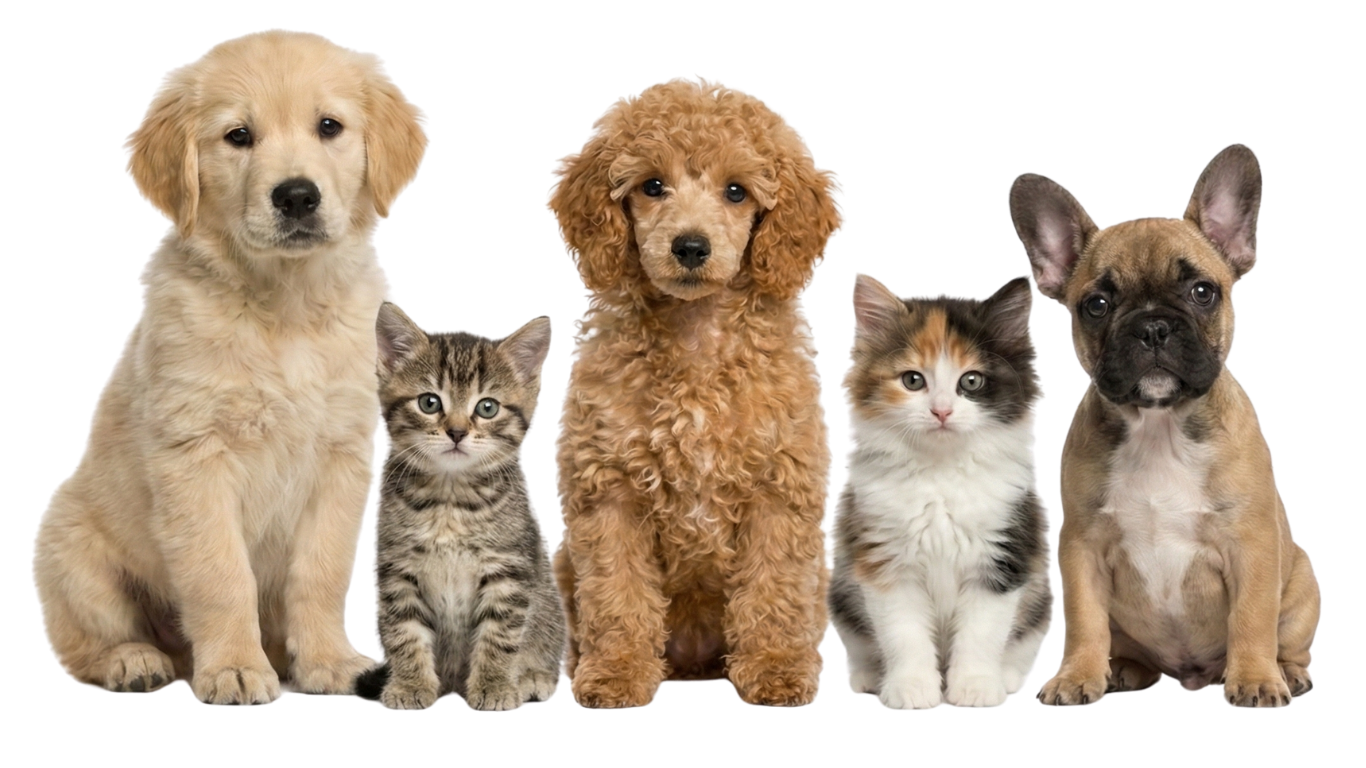
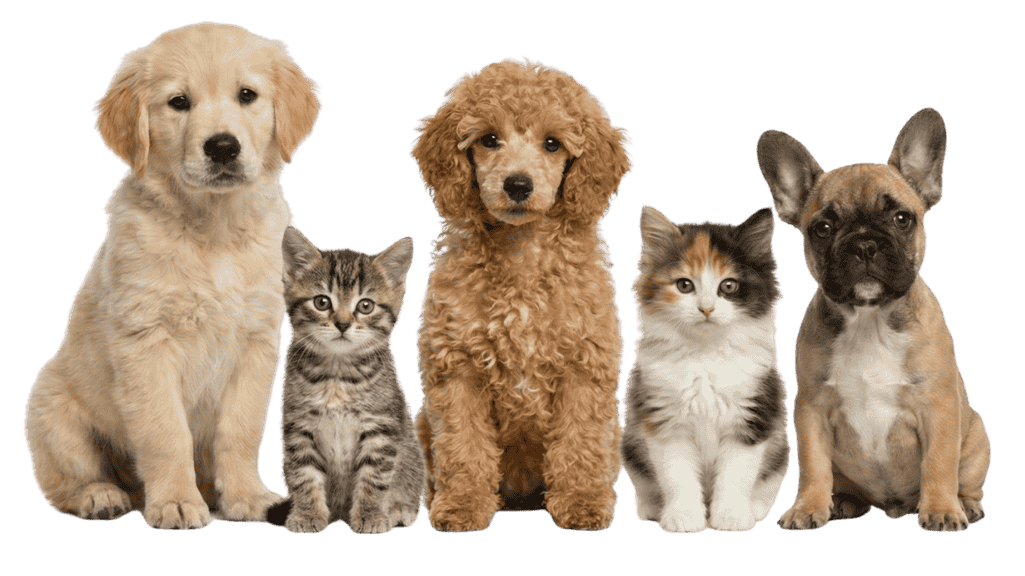
made the images and the animation lighter

diff --git a/app/page.js b/app/page.js
@@ -9,28 +9,28 @@ import React, { useRef, useEffect, useState } from 'react'
 // ==========================================
 
 const useReveal = (threshold = 0.1) => {
-  const ref = useRef(null)
-  const [isVisible, setIsVisible] = useState(false)
+    const ref = useRef(null)
+    const [isVisible, setIsVisible] = useState(false)
 
-  useEffect(() => {
-    const element = ref.current
-    if (!element) return
+    useEffect(() => {
+        const element = ref.current
+        if (!element) return
 
-    const observer = new IntersectionObserver(
-      ([entry]) => {
-        if (entry.isIntersecting) {
-          setIsVisible(true)
-          observer.disconnect() 
-        }
-      },
-      { threshold }
-    )
+        const observer = new IntersectionObserver(
+            ([entry]) => {
+                if (entry.isIntersecting) {
+                    setIsVisible(true)
+                    observer.disconnect()
+                }
+            },
+            { threshold }
+        )
 
-    observer.observe(element)
-    return () => observer.disconnect()
-  }, [threshold])
+        observer.observe(element)
+        return () => observer.disconnect()
+    }, [threshold])
 
-  return { ref, isVisible }
+    return { ref, isVisible }
 }
 
 // ==========================================
@@ -38,146 +38,127 @@ const useReveal = (threshold = 0.1) => {
 // ==========================================
 
 const HeroPremium = () => {
-  // We keep useReveal only for non-critical elements (like the floating cards)
-  // The H1 and Main Image must NOT rely on this hook for LCP speed.
-  const { ref, isVisible } = useReveal()
+    // We keep useReveal only for non-critical elements (like the floating cards)
+    // The H1 and Main Image must NOT rely on this hook for LCP speed.
+    const { ref, isVisible } = useReveal()
 
-  return (
-    <div ref={ref} className='relative w-full flex justify-center items-center min-h-[85vh] overflow-hidden py-20'>
-      
-      {/* BACKGROUND DECORATION */}
-      <div className="absolute top-0 right-0 w-[800px] h-[800px] rounded-full blur-3xl opacity-60 -translate-y-1/2 translate-x-1/3 pointer-events-none" />
-      <div className="absolute bottom-0 left-0 w-[600px] h-[600px] bg-orange-100/40 rounded-full blur-3xl opacity-50 translate-y-1/3 -translate-x-1/4 pointer-events-none" />
+    return (
+        <div ref={ref} className='relative w-full flex justify-center items-center min-h-[85vh] overflow-hidden py-20'>
 
-      <div className='relative z-10 w-[90%] max-w-7xl grid grid-cols-1 lg:grid-cols-2 gap-16 lg:gap-8 items-center'>
-        
-        {/* =======================================
+            {/* BACKGROUND DECORATION */}
+            <div className="absolute top-0 right-0 w-[800px] h-[800px] rounded-full blur-3xl opacity-60 -translate-y-1/2 translate-x-1/3 pointer-events-none" />
+            <div className="absolute bottom-0 left-0 w-[600px] h-[600px] bg-orange-100/40 rounded-full blur-3xl opacity-50 translate-y-1/3 -translate-x-1/4 pointer-events-none" />
+
+            <div className='relative z-10 w-[90%] max-w-7xl grid grid-cols-1 lg:grid-cols-2 gap-16 lg:gap-8 items-center'>
+
+                {/* =======================================
             TEXT SECTION (Left Side)
            ======================================= */}
-        <div className='flex flex-col items-center lg:items-start text-center lg:text-left order-last lg:order-first'>
-            
-            {/* 1. Pill Badge - Uses CSS Animation (delay 0.1s) */}
-            <div className="opacity-0 animate-[fade-up_0.8s_ease-out_forwards_100ms]">
-                <span className="inline-flex items-center gap-2 bg-orange-50 text-[#E85D04] px-5 py-2 rounded-full text-sm font-bold tracking-wide border border-orange-100 mb-8">
-                    <span className="w-2 h-2 rounded-full bg-[#E85D04] animate-pulse"/>
-                    Over 500+ pets adopted this month
-                </span>
-            </div>
+                <div className='flex flex-col items-center lg:items-start text-center lg:text-left order-last lg:order-first'>
 
-            {/* 2. Massive Heading - THIS IS YOUR LCP ELEMENT */}
-            {/* SOLUTION: Removed JS conditional classes. Added CSS animation. */}
-            <h1 className="text-5xl lg:text-7xl xl:text-8xl font-extrabold text-[#2d2d2d] leading-[1.05] tracking-tight mb-8 opacity-0 animate-[fade-up_0.8s_ease-out_forwards_200ms]">
-                Find your <br />
-                <span className="text-transparent bg-clip-text bg-linear-to-r from-[#E85D04] to-[#FF9F1C] relative">
-                    soulmate.
-                    {/* Artistic Underline */}
-                    <svg className="absolute  h-4 -bottom-1 left-0 text-[#FF9F1C] animate-[width-grow_1s_ease-out_forwards_800ms] w-0 opacity-0" viewBox="0 0 200 9" fill="none" preserveAspectRatio="none"><path d="M2.00025 6.99997C2.00025 6.99997 101 -0.500003 198 2.49997" stroke="currentColor" strokeWidth="4" strokeLinecap="round"/></svg>
-                </span>
-            </h1>
-
-            {/* 3. Description */}
-            <p className="text-lg text-[#5a4a3a] font-medium max-w-lg leading-relaxed mb-10 opacity-0 animate-[fade-up_0.8s_ease-out_forwards_300ms]">
-                They aren&apos;t just looking for a home. They are looking for you. Browse hundreds of profiles and find the one that clicks.
-            </p>
-
-            {/* 4. Action Area */}
-            <div className="flex flex-col sm:flex-row items-center gap-8 w-full opacity-0 animate-[fade-up_0.8s_ease-out_forwards_500ms]">
-                <button className='cursor-pointer relative overflow-hidden group bg-[#2d2d2d] text-white font-bold text-lg px-10 py-5 rounded-full shadow-2xl hover:scale-105 transition-all duration-300'>
-                    <Link href="/pets" className="relative z-10 flex items-center gap-2">
-                        Start Adoption
-                        <svg className="w-5 h-5 group-hover:translate-x-1 transition-transform" fill="none" stroke="currentColor" viewBox="0 0 24 24"><path strokeLinecap="round" strokeLinejoin="round" strokeWidth="2" d="M17 8l4 4m0 0l-4 4m4-4H3"></path></svg>
-                    </Link>
-                    <div className="absolute inset-0 -translate-x-full group-hover:translate-x-full transition-transform duration-700 bg-linear-to-r from-transparent via-white/20 to-transparent skew-x-12" />
-                </button>
-
-                {/* Avatar Stack */}
-                <div className="flex items-center gap-3">
-                    <div className="flex -space-x-4">
-                        {[1,2,3].map((_, i) => (
-                            <div key={i} className="w-10 h-10 rounded-full border-2 border-white bg-gray-200 overflow-hidden relative">
-                                <Image 
-                                    src={`https://i.pravatar.cc/100?img=${i + 10}`} 
-                                    alt="User" 
-                                    fill 
-                                    className="object-cover"
-                                    unoptimized
-                                />
-                            </div>
-                        ))}
+                    {/* 1. Pill Badge - Uses CSS Animation (delay 0.1s) */}
+                    <div className="opacity-0 animate-[fade-up_0.8s_ease-out_forwards_100ms] will-change-transform">
+                        <span className="inline-flex items-center gap-2 bg-orange-50 text-[#E85D04] px-5 py-2 rounded-full text-sm font-bold tracking-wide border border-orange-100 mb-8">
+                            <span className="w-2 h-2 rounded-full bg-[#E85D04] animate-pulse" />
+                            Over 500+ pets adopted this month
+                        </span>
                     </div>
-                    <div className="text-sm font-semibold text-[#5a4a3a]">
-                        <span className="block font-bold text-[#E85D04]">2k+ Families</span>
-                        Trust us
+
+                    {/* 2. Massive Heading - THIS IS YOUR LCP ELEMENT */}
+                    {/* SOLUTION: Removed JS conditional classes. Added CSS animation. */}
+                    <h1 className="text-5xl lg:text-7xl xl:text-8xl font-extrabold text-[#2d2d2d] leading-[1.05] tracking-tight mb-8 opacity-0 animate-[fade-up_0.8s_ease-out_forwards_200ms] will-change-transform">
+                        Find your <br />
+                        <span className="text-transparent bg-clip-text bg-linear-to-r from-[#E85D04] to-[#FF9F1C] relative">
+                            soulmate.
+                            {/* Artistic Underline - Optimized: uses scaleX and origin-left instead of width */}
+                            <svg className="absolute  h-4 -bottom-1 left-0 text-[#FF9F1C] animate-[width-grow_1s_ease-out_forwards_800ms] w-full origin-left scale-x-0 opacity-0 will-change-transform" viewBox="0 0 200 9" fill="none" preserveAspectRatio="none"><path d="M2.00025 6.99997C2.00025 6.99997 101 -0.500003 198 2.49997" stroke="currentColor" strokeWidth="4" strokeLinecap="round" /></svg>
+                        </span>
+                    </h1>
+
+                    {/* 3. Description */}
+                    <p className="text-lg text-[#5a4a3a] font-medium max-w-lg leading-relaxed mb-10 opacity-0 animate-[fade-up_0.8s_ease-out_forwards_300ms] will-change-transform">
+                        They aren&apos;t just looking for a home. They are looking for you. Browse hundreds of profiles and find the one that clicks.
+                    </p>
+
+                    {/* 4. Action Area */}
+                    <div className="flex flex-col sm:flex-row items-center gap-8 w-full opacity-0 animate-[fade-up_0.8s_ease-out_forwards_500ms] will-change-transform">
+                        <button className='cursor-pointer relative overflow-hidden group bg-[#2d2d2d] text-white font-bold text-lg px-10 py-5 rounded-full shadow-2xl hover:scale-105 transition-all duration-300'>
+                            <Link href="/pets" className="relative z-10 flex items-center gap-2">
+                                Start Adoption
+                                <svg className="w-5 h-5 group-hover:translate-x-1 transition-transform" fill="none" stroke="currentColor" viewBox="0 0 24 24"><path strokeLinecap="round" strokeLinejoin="round" strokeWidth="2" d="M17 8l4 4m0 0l-4 4m4-4H3"></path></svg>
+                            </Link>
+                            <div className="absolute inset-0 -translate-x-full group-hover:translate-x-full transition-transform duration-700 bg-linear-to-r from-transparent via-white/20 to-transparent skew-x-12" />
+                        </button>
+
+                        {/* Avatar Stack */}
+                        <div className="flex items-center gap-3">
+                            <div className="flex -space-x-4">
+                                {[1, 2, 3].map((_, i) => (
+                                    <div key={i} className="w-10 h-10 rounded-full border-2 border-white bg-gray-200 overflow-hidden relative">
+                                        <Image
+                                            src={`https://i.pravatar.cc/100?img=${i + 10}`}
+                                            alt="User"
+                                            fill
+                                            className="object-cover"
+                                            unoptimized
+                                        />
+                                    </div>
+                                ))}
+                            </div>
+                            <div className="text-sm font-semibold text-[#5a4a3a]">
+                                <span className="block font-bold text-[#E85D04]">2k+ Families</span>
+                                Trust us
+                            </div>
+                        </div>
                     </div>
                 </div>
-            </div>
-        </div>
 
-        {/* =======================================
+                {/* =======================================
             IMAGE SECTION (Right Side)
            ======================================= */}
-        <div className="relative opacity-0 animate-[fade-in-scale_1s_ease-out_forwards_300ms]">
-            
-            {/* The Glow Behind */}
-            <div className="absolute top-1/2 left-1/2 -translate-x-1/2 -translate-y-1/2 w-[120%] h-[120%] bg-linear-to-b from-orange-200/40 to-transparent rounded-full blur-2xl -z-10" />
+                <div className="relative opacity-0 animate-[fade-in-scale_1s_ease-out_forwards_300ms] will-change-transform">
 
-            {/* Main Image Container */}
-            <div className="relative animate-[float_6s_ease-in-out_infinite]">
-                 <Image 
-                    src="/pets.png" 
-                    alt="Main Hero" 
-                    width={800} 
-                    height={800} 
-                    priority // Critical for LCP
-                    className="object-contain drop-shadow-2xl relative z-10 hover:scale-[1.02] transition-transform duration-500"
-                 />
-            </div>
+                    {/* The Glow Behind */}
+                    <div className="absolute top-1/2 left-1/2 -translate-x-1/2 -translate-y-1/2 w-[120%] h-[120%] bg-linear-to-b from-orange-200/40 to-transparent rounded-full blur-2xl -z-10" />
 
-            {/* FLOATING CARD - Keeps JS Hook because it's not critical for LCP */}
-            <div className={`
+                    {/* Main Image Container */}
+                    <div className="relative animate-[float_6s_ease-in-out_infinite]">
+                        <Image
+                            src="/pets.png"
+                            alt="Main Hero"
+                            width={800}
+                            height={800}
+                            priority // Critical for LCP
+                            className="object-contain drop-shadow-2xl relative z-10 hover:scale-[1.02] transition-transform duration-500"
+                        />
+                    </div>
+
+                    {/* FLOATING CARD - Keeps JS Hook because it's not critical for LCP */}
+                    <div className={`
                 absolute bottom-10 right-4 lg:-right-8 z-20 bg-white/80 backdrop-blur-md p-4 rounded-2xl shadow-xl border border-white/50
                 animate-[float_5s_ease-in-out_infinite_1s]
                 transition-all duration-1000 ease-out delay-700
+                will-change-transform
                 ${isVisible ? 'opacity-100 translate-y-0' : 'opacity-0 translate-y-10'}
             `}>
-                <div className="flex items-center gap-3">
-                    <div className="bg-green-100 p-2 rounded-full text-green-600">
-                        <svg className="w-6 h-6" fill="none" stroke="currentColor" viewBox="0 0 24 24"><path strokeLinecap="round" strokeLinejoin="round" strokeWidth="2" d="M5 13l4 4L19 7"></path></svg>
+                        <div className="flex items-center gap-3">
+                            <div className="bg-green-100 p-2 rounded-full text-green-600">
+                                <svg className="w-6 h-6" fill="none" stroke="currentColor" viewBox="0 0 24 24"><path strokeLinecap="round" strokeLinejoin="round" strokeWidth="2" d="M5 13l4 4L19 7"></path></svg>
+                            </div>
+                            <div>
+                                <p className="text-xs text-gray-500 font-bold uppercase tracking-wider">Just Adopted</p>
+                                <p className="text-sm font-bold text-gray-800">Milo found a home!</p>
+                            </div>
+                        </div>
                     </div>
-                    <div>
-                        <p className="text-xs text-gray-500 font-bold uppercase tracking-wider">Just Adopted</p>
-                        <p className="text-sm font-bold text-gray-800">Milo found a home!</p>
-                    </div>
+
                 </div>
+
             </div>
 
+
         </div>
-
-      </div>
-
-      {/* PURE CSS ANIMATIONS (No JS Required) 
-          This is what makes the LCP fast. The browser paints this immediately.
-      */}
-      <style jsx global>{`
-        @keyframes float {
-          0%, 100% { transform: translateY(0); }
-          50% { transform: translateY(-20px); }
-        }
-        @keyframes fade-up {
-            0% { opacity: 0; transform: translateY(20px); }
-            100% { opacity: 1; transform: translateY(0); }
-        }
-        @keyframes fade-in-scale {
-            0% { opacity: 0; transform: scale(0.95) translateX(20px); }
-            100% { opacity: 1; transform: scale(1) translateX(0); }
-        }
-        @keyframes width-grow {
-            0% { width: 0; opacity: 0; }
-            100% { width: 100%; opacity: 1; }
-        }
-      `}</style>
-    </div>
-  )
+    )
 }
 
 export default HeroPremium

diff --git a/app/pet/[id]/page.jsx b/app/pet/[id]/page.jsx
@@ -10,7 +10,7 @@ const pets = [
 
 // 1. ADD 'async' HERE
 const PetDetailsPage = async ({ params }) => {
-    
+
     // 2. ADD 'await' HERE
     // In Next.js 15+, params is a Promise. You must resolve it before reading properties.
     const resolvedParams = await params
@@ -31,14 +31,14 @@ const PetDetailsPage = async ({ params }) => {
 
     return (
         <div className="min-h-screen  py-20 px-6 flex justify-center items-center">
-            <div className="max-w-5xl w-full bg-white rounded-[40px] shadow-2xl overflow-hidden grid grid-cols-1 md:grid-cols-2 animate-[fade-up_0.5s_ease-out]">
-                
+            <div className="max-w-5xl w-full bg-white rounded-[40px] shadow-2xl overflow-hidden grid grid-cols-1 md:grid-cols-2 animate-[fade-up_0.5s_ease-out] will-change-transform">
+
                 {/* Left: Image */}
                 <div className="relative h-[400px] md:h-auto bg-gray-100">
-                    <Image 
-                        src={pet.image} 
-                        alt={pet.name} 
-                        fill 
+                    <Image
+                        src={pet.image}
+                        alt={pet.name}
+                        fill
                         className="object-cover"
                     />
                 </div>

diff --git a/app/globals.css b/app/globals.css
@@ -28,3 +28,30 @@ html {
 html, body {
   -ms-overflow-style: none;
 }
+
+/* Optimized Global Animations */
+@keyframes float {
+  0%, 100% { transform: translateY(0); }
+  50% { transform: translateY(-20px); }
+  /* Added will-change hint implicitly via usage classes, but good to have efficient keyframes */
+}
+
+@keyframes fade-up {
+    0% { opacity: 0; transform: translateY(20px); }
+    100% { opacity: 1; transform: translateY(0); }
+}
+
+@keyframes fade-in-scale {
+    0% { opacity: 0; transform: scale(0.95) translateX(20px); }
+    100% { opacity: 1; transform: scale(1) translateX(0); }
+}
+
+@keyframes width-grow {
+    0% { transform: scaleX(0); opacity: 0; }
+    100% { transform: scaleX(1); opacity: 1; }
+}
+
+.will-change-transform {
+  will-change: transform;
+  backface-visibility: hidden;
+}
